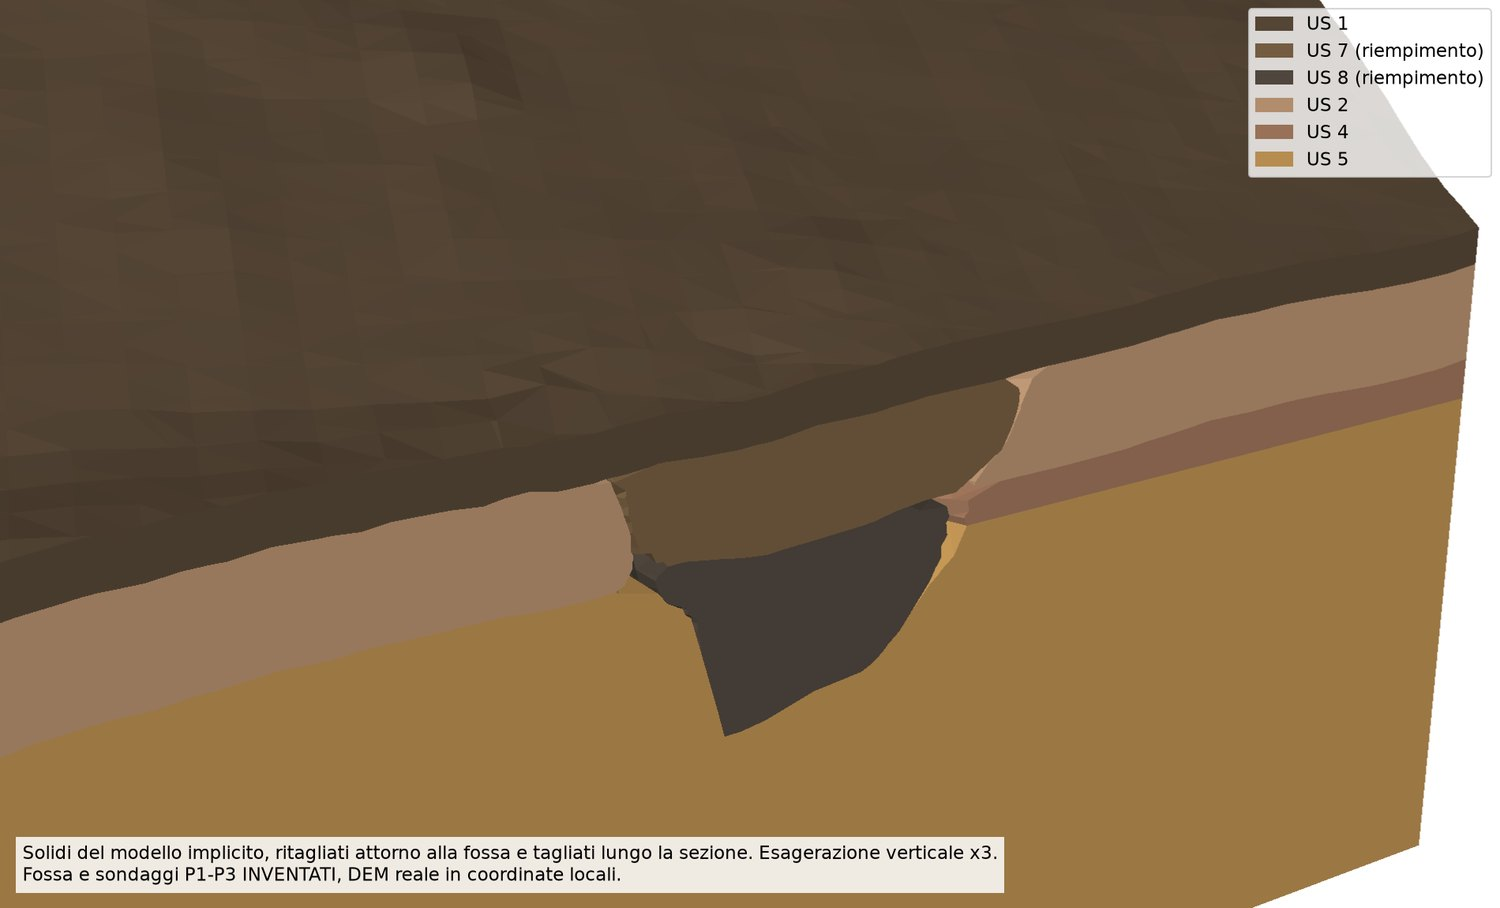
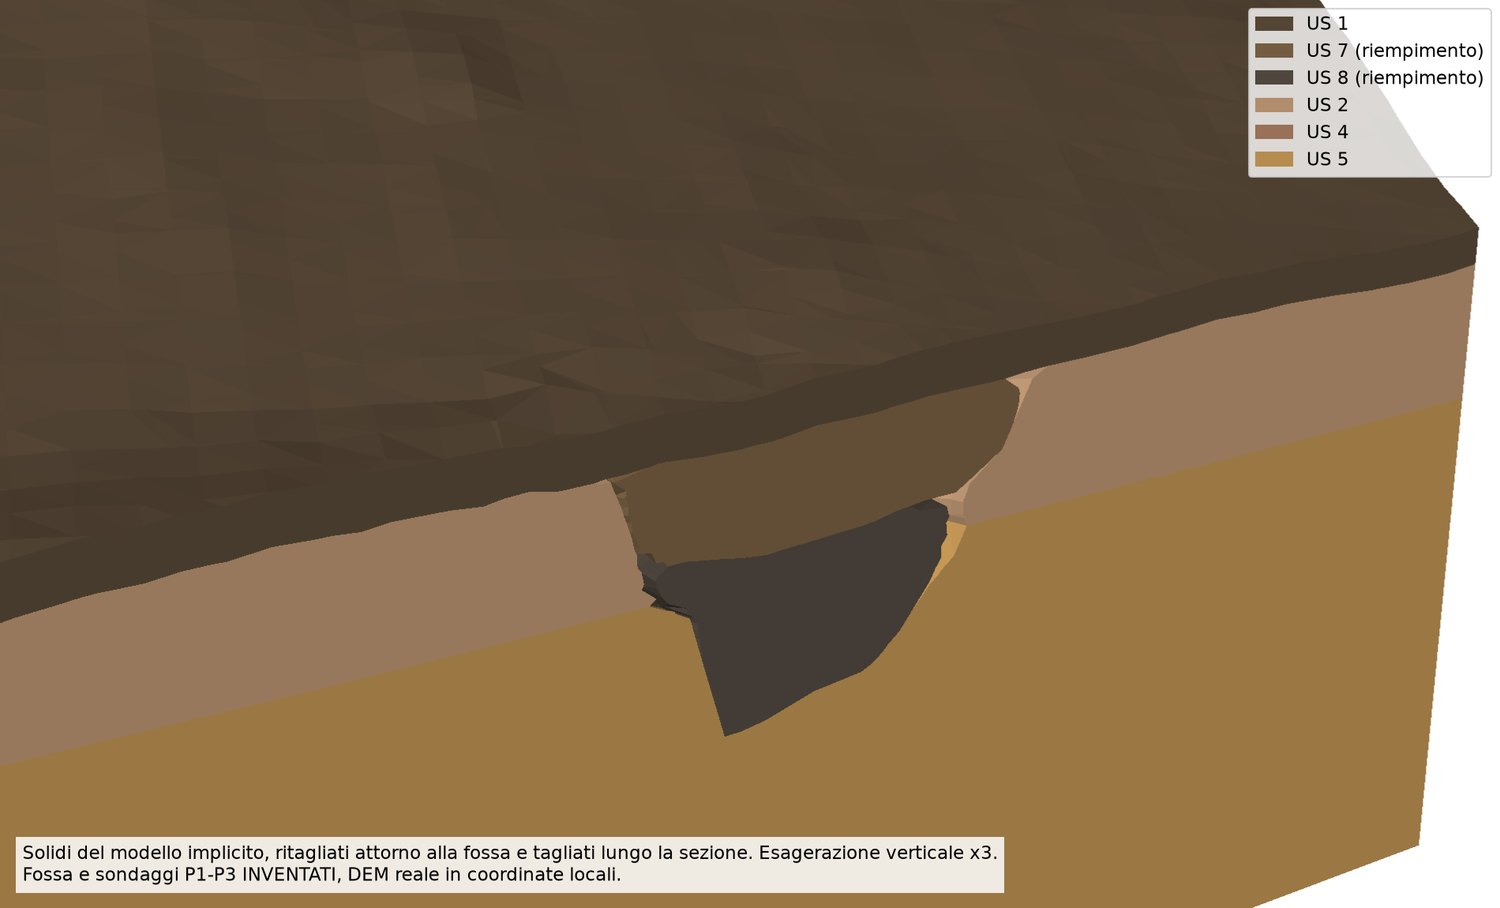
docs(plugins): Geoarchaeology 0.2.0 - the place of an absent unit goes to the unit above, numbers and figures of the new run

diff --git a/docs/plugins/geoarchaeology.it.md b/docs/plugins/geoarchaeology.it.md
@@ -808,7 +808,7 @@ fondo misurato solo accanto al bordo non dice nulla del centro (`floor_unmeasure
 Un campo tiene uno spessore ovunque, quindi un'unità vista in pochi sondaggi si allargherebbe su tutto il sito. Il modello applica la regola del
 kriging: i sondaggi votano per l'unità per inverso della distanza, quelli che la attraversano senza trovarla contro, e dove prevalgono quelli senza l'unità non c'è, con un
 bordo verticale; uno spessore che il kriging distingue da zero resta. Un sondaggio dentro un taglio non vota contro quello che il taglio ha portato via.
-Dove un'unità non c'è, i suoi voxel passano allo strato sotto, e il riepilogo dice da quante celle è stata tolta. Non c'è un avviso: è il funzionamento normale del
+Dove un'unità non c'è, i suoi voxel passano allo strato più vicino sopra di lei nella sua serie che lì c'è, così il tetto dello strato sotto resta dove lo hanno messo i suoi sondaggi; senza uno strato sopra nella serie passano allo strato sotto. Riempimenti e interno dei tagli non danno e non prendono. Il riepilogo dice da quante celle un'unità è stata tolta. Non c'è un avviso: è il funzionamento normale del
 modello. Nella dimostrazione US 3, vista in 5 sondaggi su 21, copre 10.368 m² contro i 9.647 del kriging; senza questa regola ne copriva 59.600.
 
 `volumi.csv` ha `kriging_m3` e `same_cells_m3`: il volume di ciascun metodo sulle celle che hanno entrambi. Il kriging si ferma al margine intorno ai
@@ -817,14 +817,14 @@ riepilogo. Sui 73.834 m² della dimostrazione:
 
 | Unità | Kriging | Implicito, stesse celle | Implicito, tutto (`volume_m3`) |
 |---|---:|---:|---:|
-| US 1 | 22.974 m³ | 21.793 m³ | 28.102 m³ |
-| US 2 | 75.705 m³ | 45.465 m³ | 60.602 m³ |
+| US 1 | 22.974 m³ | 21.981 m³ | 28.321 m³ |
+| US 2 | 75.705 m³ | 93.071 m³ | 117.297 m³ |
 | US 3, rara | 25.341 m³ | 20.466 m³ | 20.466 m³ |
-| US 4 | 181.703 m³ | 208.931 m³ | 217.052 m³ |
-| US 5, fino alla base del modello | 263.288 m³ | 274.179 m³ | 378.837 m³ |
+| US 4 | 181.703 m³ | 167.112 m³ | 167.133 m³ |
+| US 5, fino alla base del modello | 263.288 m³ | 268.203 m³ | 371.841 m³ |
 
-Tutto il deposito sopra il naturale differisce del 3 % (305.723 contro 296.655 m³), le singole unità molto di più. Dove US 3 non c'è, il suo spazio passa allo strato
-sotto, così US 4 prende quello che i sondaggi danno a US 2: US 2 è il 40 % sotto il kriging e US 4 il 15 % sopra. Fidati del volume del deposito prima che di quelli delle
+Tutto il deposito sopra il naturale differisce dell'1 % (305.723 contro 302.630 m³), le singole unità fino al 23 %: dove US 3 non c'è, il suo spazio passa a US 2, che è il
+23 % sopra il kriging, US 3 il 19 % sotto, US 4 l'8 % sotto. Fidati del volume del deposito prima che di quelli delle
 sue unità, e dell'errore leave-one-out per dov'è un contatto dove esiste, non per fin dove arriva l'unità.
 
 <figure markdown="span">

diff --git a/docs/plugins/geoarchaeology.md b/docs/plugins/geoarchaeology.md
@@ -800,7 +800,7 @@ measured only beside the edge says nothing of the middle (`floor_unmeasured`), a
 A field keeps a thickness everywhere, so a unit seen in a few boreholes would spread over the whole site. The model applies the rule of the
 kriging: the boreholes vote for the unit by inverse distance, those that pass it by against, and where those without it win it is not
 there, with a vertical edge; a thickness the kriging can tell from none stays. A borehole inside a cut does not vote against what the cut took away.
-Where a unit is not, its voxels go to the layer under it, and the summary says from how many cells it was taken. There is no warning: it is the normal
+Where a unit is not, its voxels go to the nearest layer above it in its series that is there, so the top of the layer under it stays where its own boreholes put it; with no layer above in the series they go to the layer under it. Fills and the inside of cuts neither give nor take. The summary says from how many cells a unit was taken. There is no warning: it is the normal
 working of the model. In the demonstration US 3, seen in 5 boreholes of 21, covers 10,368 m² against the kriging's 9,647; without this rule it covered 59,600 m².
 
 `volumi.csv` has `kriging_m3` and `same_cells_m3`: the volume of each method on the cells both have. The kriging stops at the margin around the
@@ -809,14 +809,14 @@ boreholes, the implicit model covers every cell with a DEM on its grid, so `volu
 
 | Unit | Kriging | Implicit, same cells | Implicit, all of it (`volume_m3`) |
 |---|---:|---:|---:|
-| US 1 | 22,974 m³ | 21,793 m³ | 28,102 m³ |
-| US 2 | 75,705 m³ | 45,465 m³ | 60,602 m³ |
+| US 1 | 22,974 m³ | 21,981 m³ | 28,321 m³ |
+| US 2 | 75,705 m³ | 93,071 m³ | 117,297 m³ |
 | US 3, rare | 25,341 m³ | 20,466 m³ | 20,466 m³ |
-| US 4 | 181,703 m³ | 208,931 m³ | 217,052 m³ |
-| US 5, down to the base of the model | 263,288 m³ | 274,179 m³ | 378,837 m³ |
+| US 4 | 181,703 m³ | 167,112 m³ | 167,133 m³ |
+| US 5, down to the base of the model | 263,288 m³ | 268,203 m³ | 371,841 m³ |
 
-The whole deposit above the natural differs by 3 % (305,723 against 296,655 m³), single units by much more. Where US 3 is not, its space goes to the layer under
-it, so US 4 takes what the boreholes give to US 2: US 2 is 40 % under the kriging and US 4 15 % over. Trust the volume of the deposit before those of its units, and a leave-one-out error
+The whole deposit above the natural differs by 1 % (305,723 against 302,630 m³), single units by up to 23 %: where US 3 is not, US 2 takes its space, and it is 23 % over the
+kriging, US 3 19 % under, US 4 8 % under. Trust the volume of the deposit before those of its units, and a leave-one-out error
 for where a contact is where it exists, not for how far the unit goes.
 
 <figure markdown="span">
